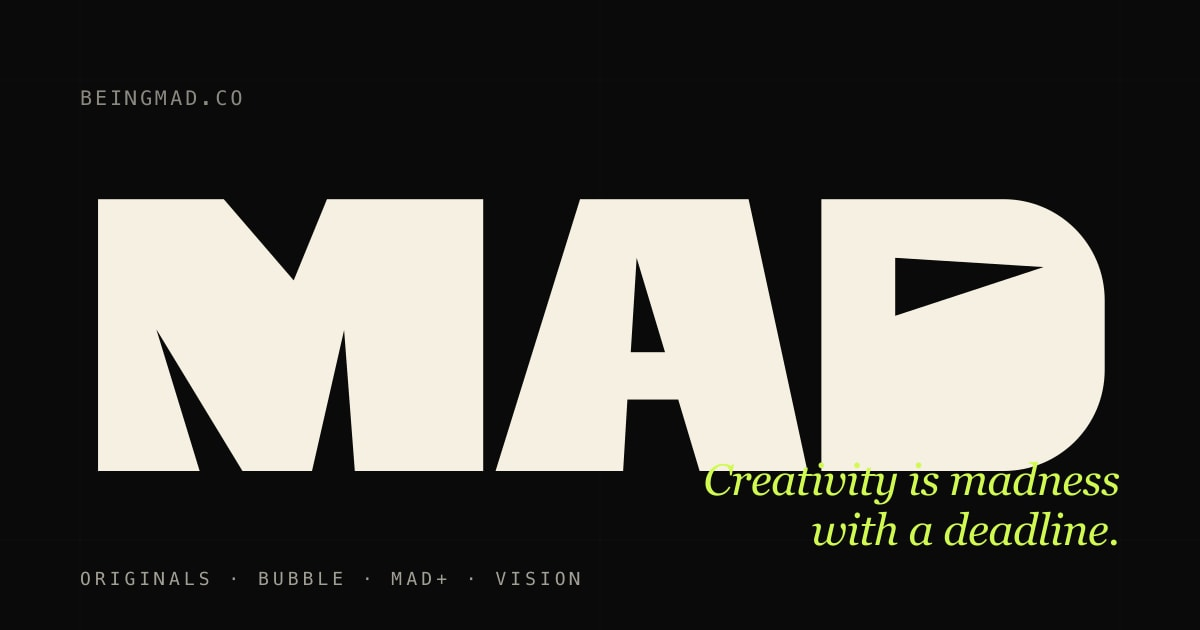
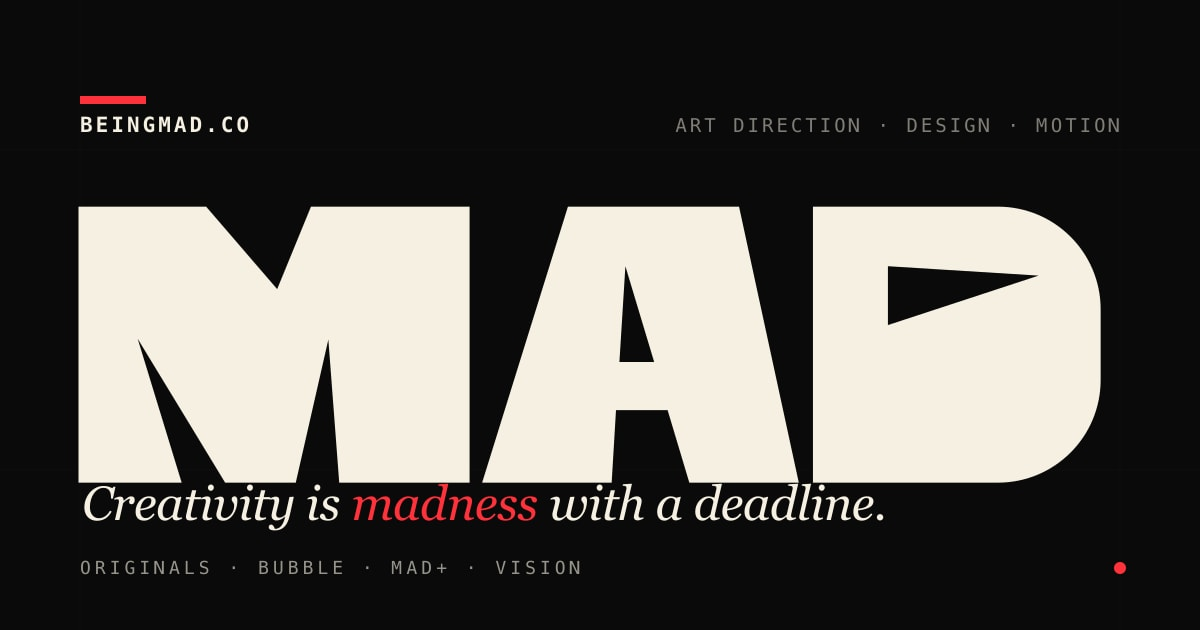
design(og): stronger share card — hero MAD wordmark, red accent, madness in red
Regenerated og-cover with a bolder brand card (giant MAD logo, red accent
tick + dot, 'madness' in red, cleaner labels). Bumped og:image to ?v=2 to
bust cached social previews.

diff --git a/src/index.html b/src/index.html
@@ -14,7 +14,7 @@
 <meta property="og:url" content="https://beingmad.co/">
 <meta property="og:title" content="MAD Studio — Creativity is madness with a deadline.">
 <meta property="og:description" content="Independent creative studio. Brand systems · Art direction · 360 campaigns.">
-<meta property="og:image" content="https://beingmad.co/og-cover.jpg">
+<meta property="og:image" content="https://beingmad.co/og-cover.jpg?v=2">
 <meta property="og:image:width" content="1200">
 <meta property="og:image:height" content="630">
 
@@ -22,7 +22,7 @@
 <meta name="twitter:card" content="summary_large_image">
 <meta name="twitter:title" content="MAD Studio — Creativity is madness with a deadline.">
 <meta name="twitter:description" content="Independent creative studio. Brand systems · Art direction · 360 campaigns.">
-<meta name="twitter:image" content="https://beingmad.co/og-cover.jpg">
+<meta name="twitter:image" content="https://beingmad.co/og-cover.jpg?v=2">
 
 <link rel="canonical" href="https://beingmad.co/">
 

diff --git a/vite.config.js b/vite.config.js
@@ -152,7 +152,7 @@ function perUrlHtmlPlugin() {
       writeRoute('/', {
         title: `MAD Studio — ${tagline}`,
         description: tagline,
-        ogImage: '/og-cover.jpg',
+        ogImage: '/og-cover.jpg?v=2',
         jsonLd: {
           '@context': 'https://schema.org',
           '@type': 'Organization',
